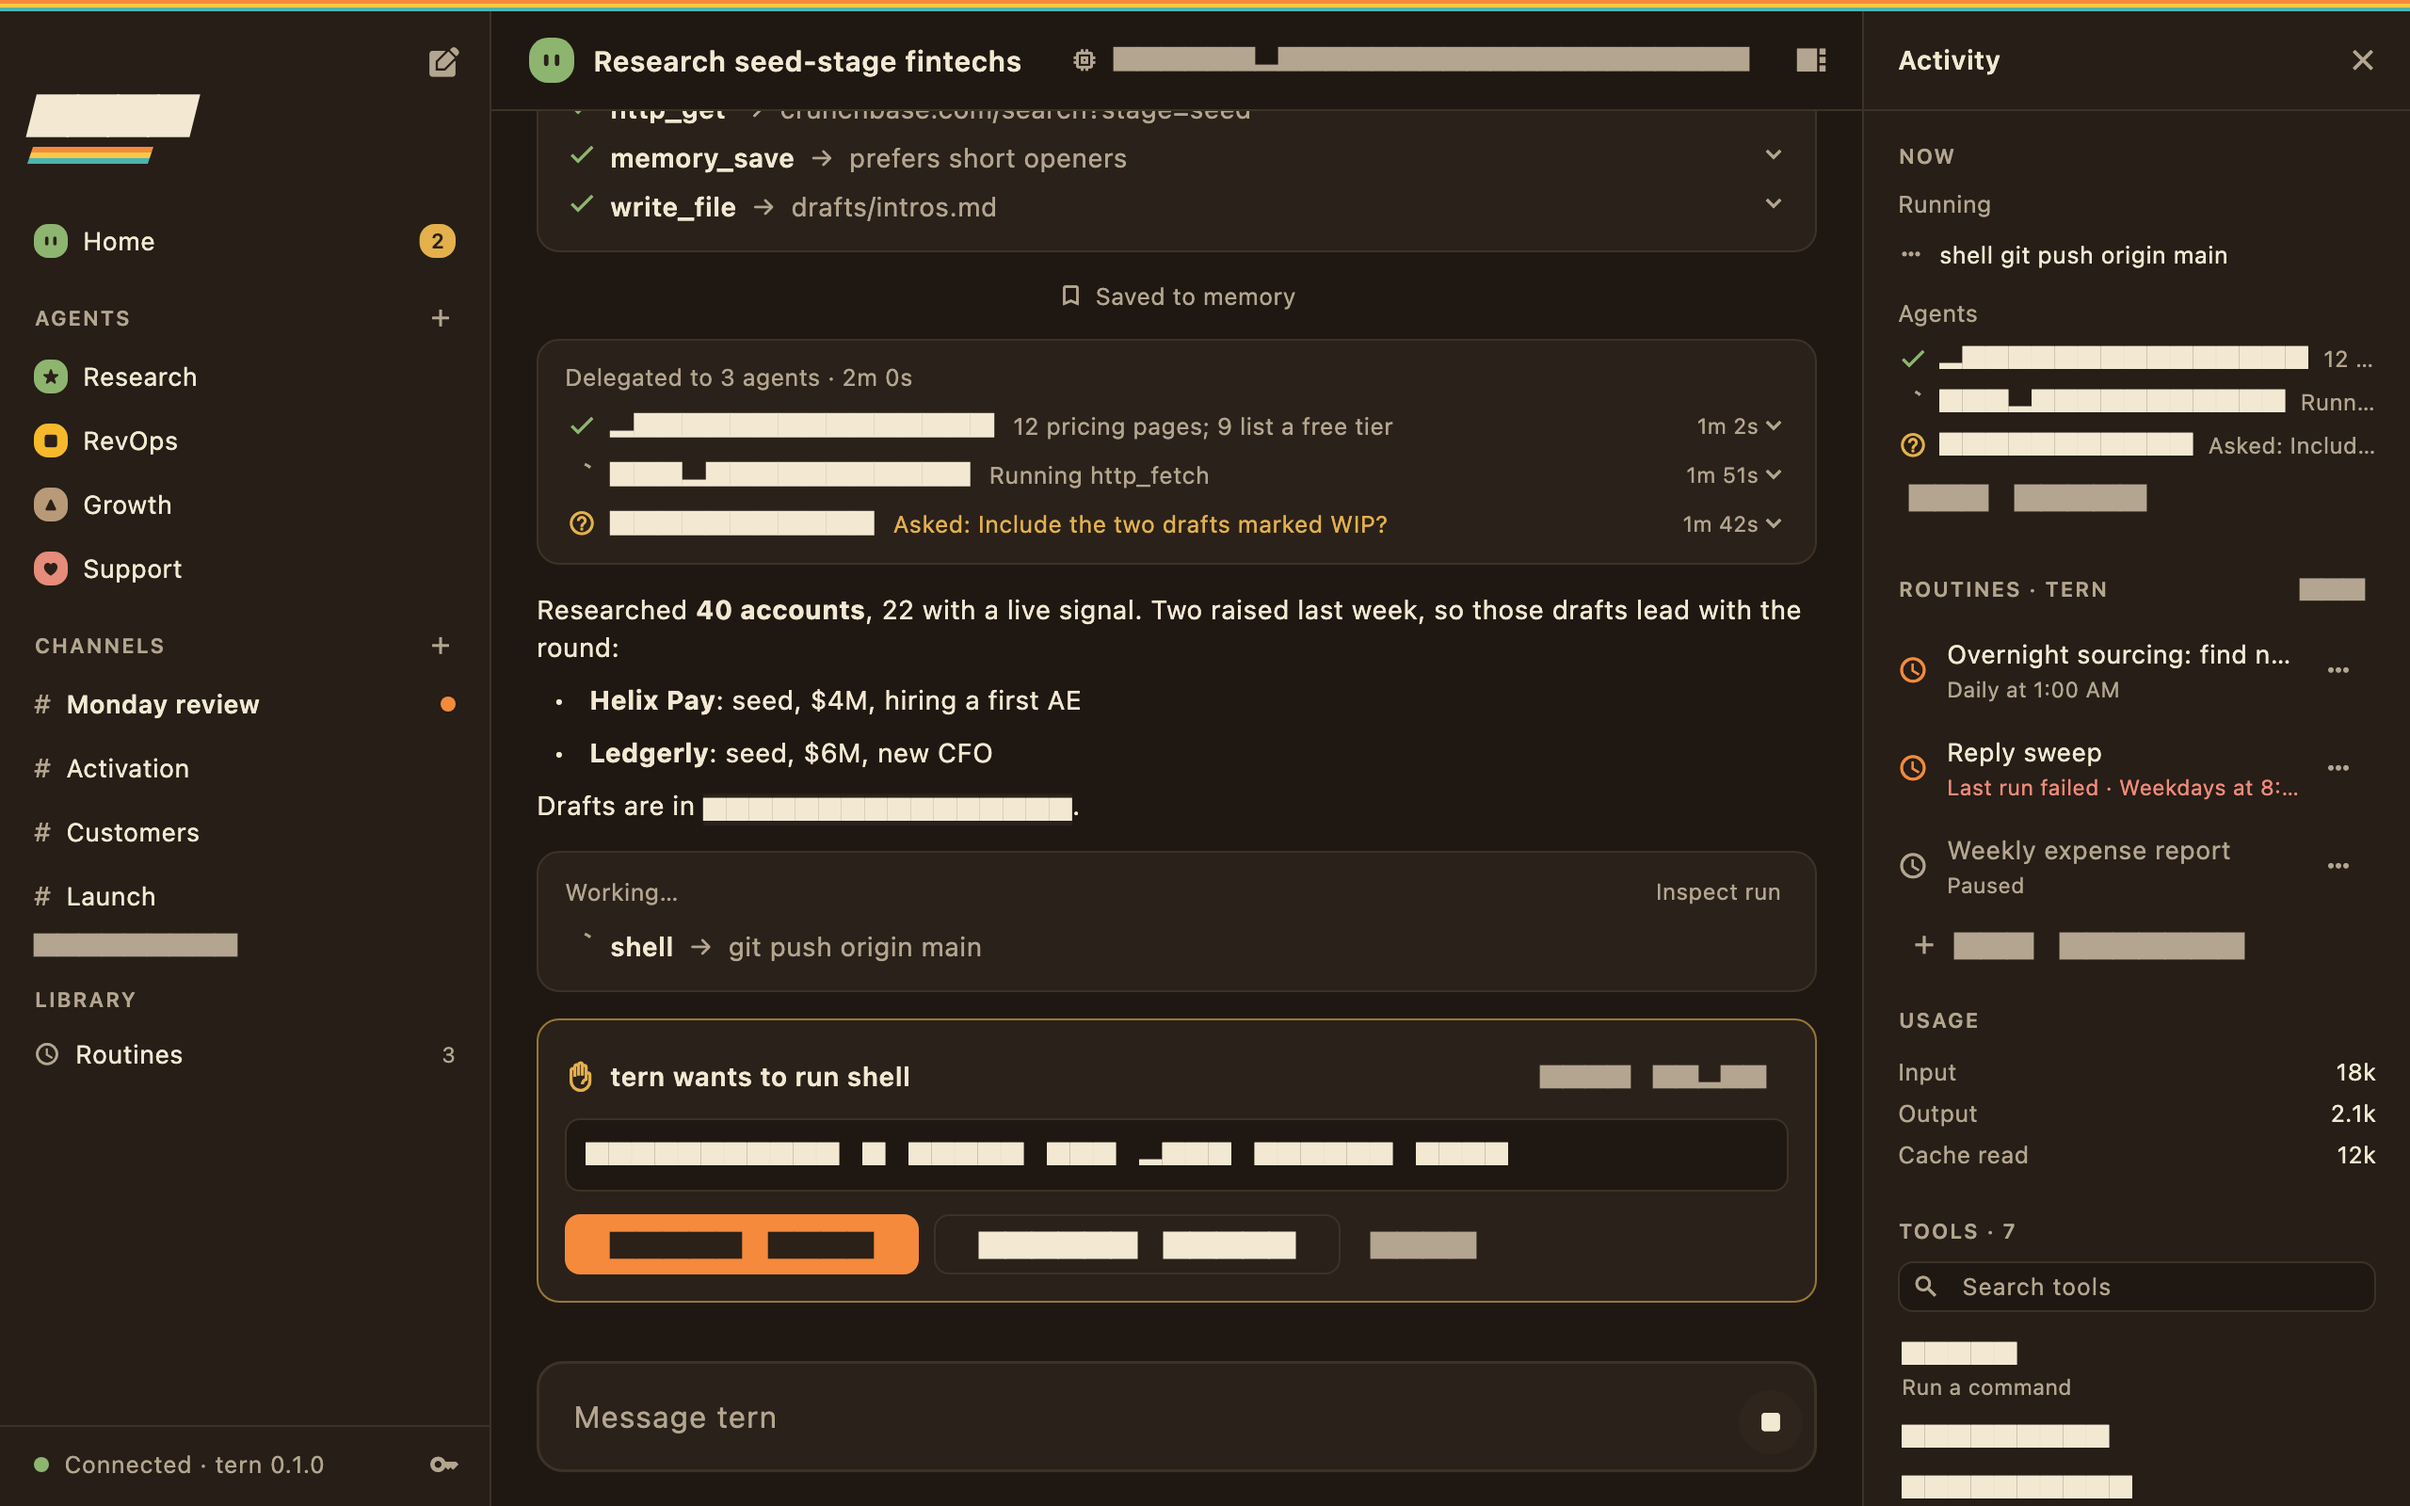
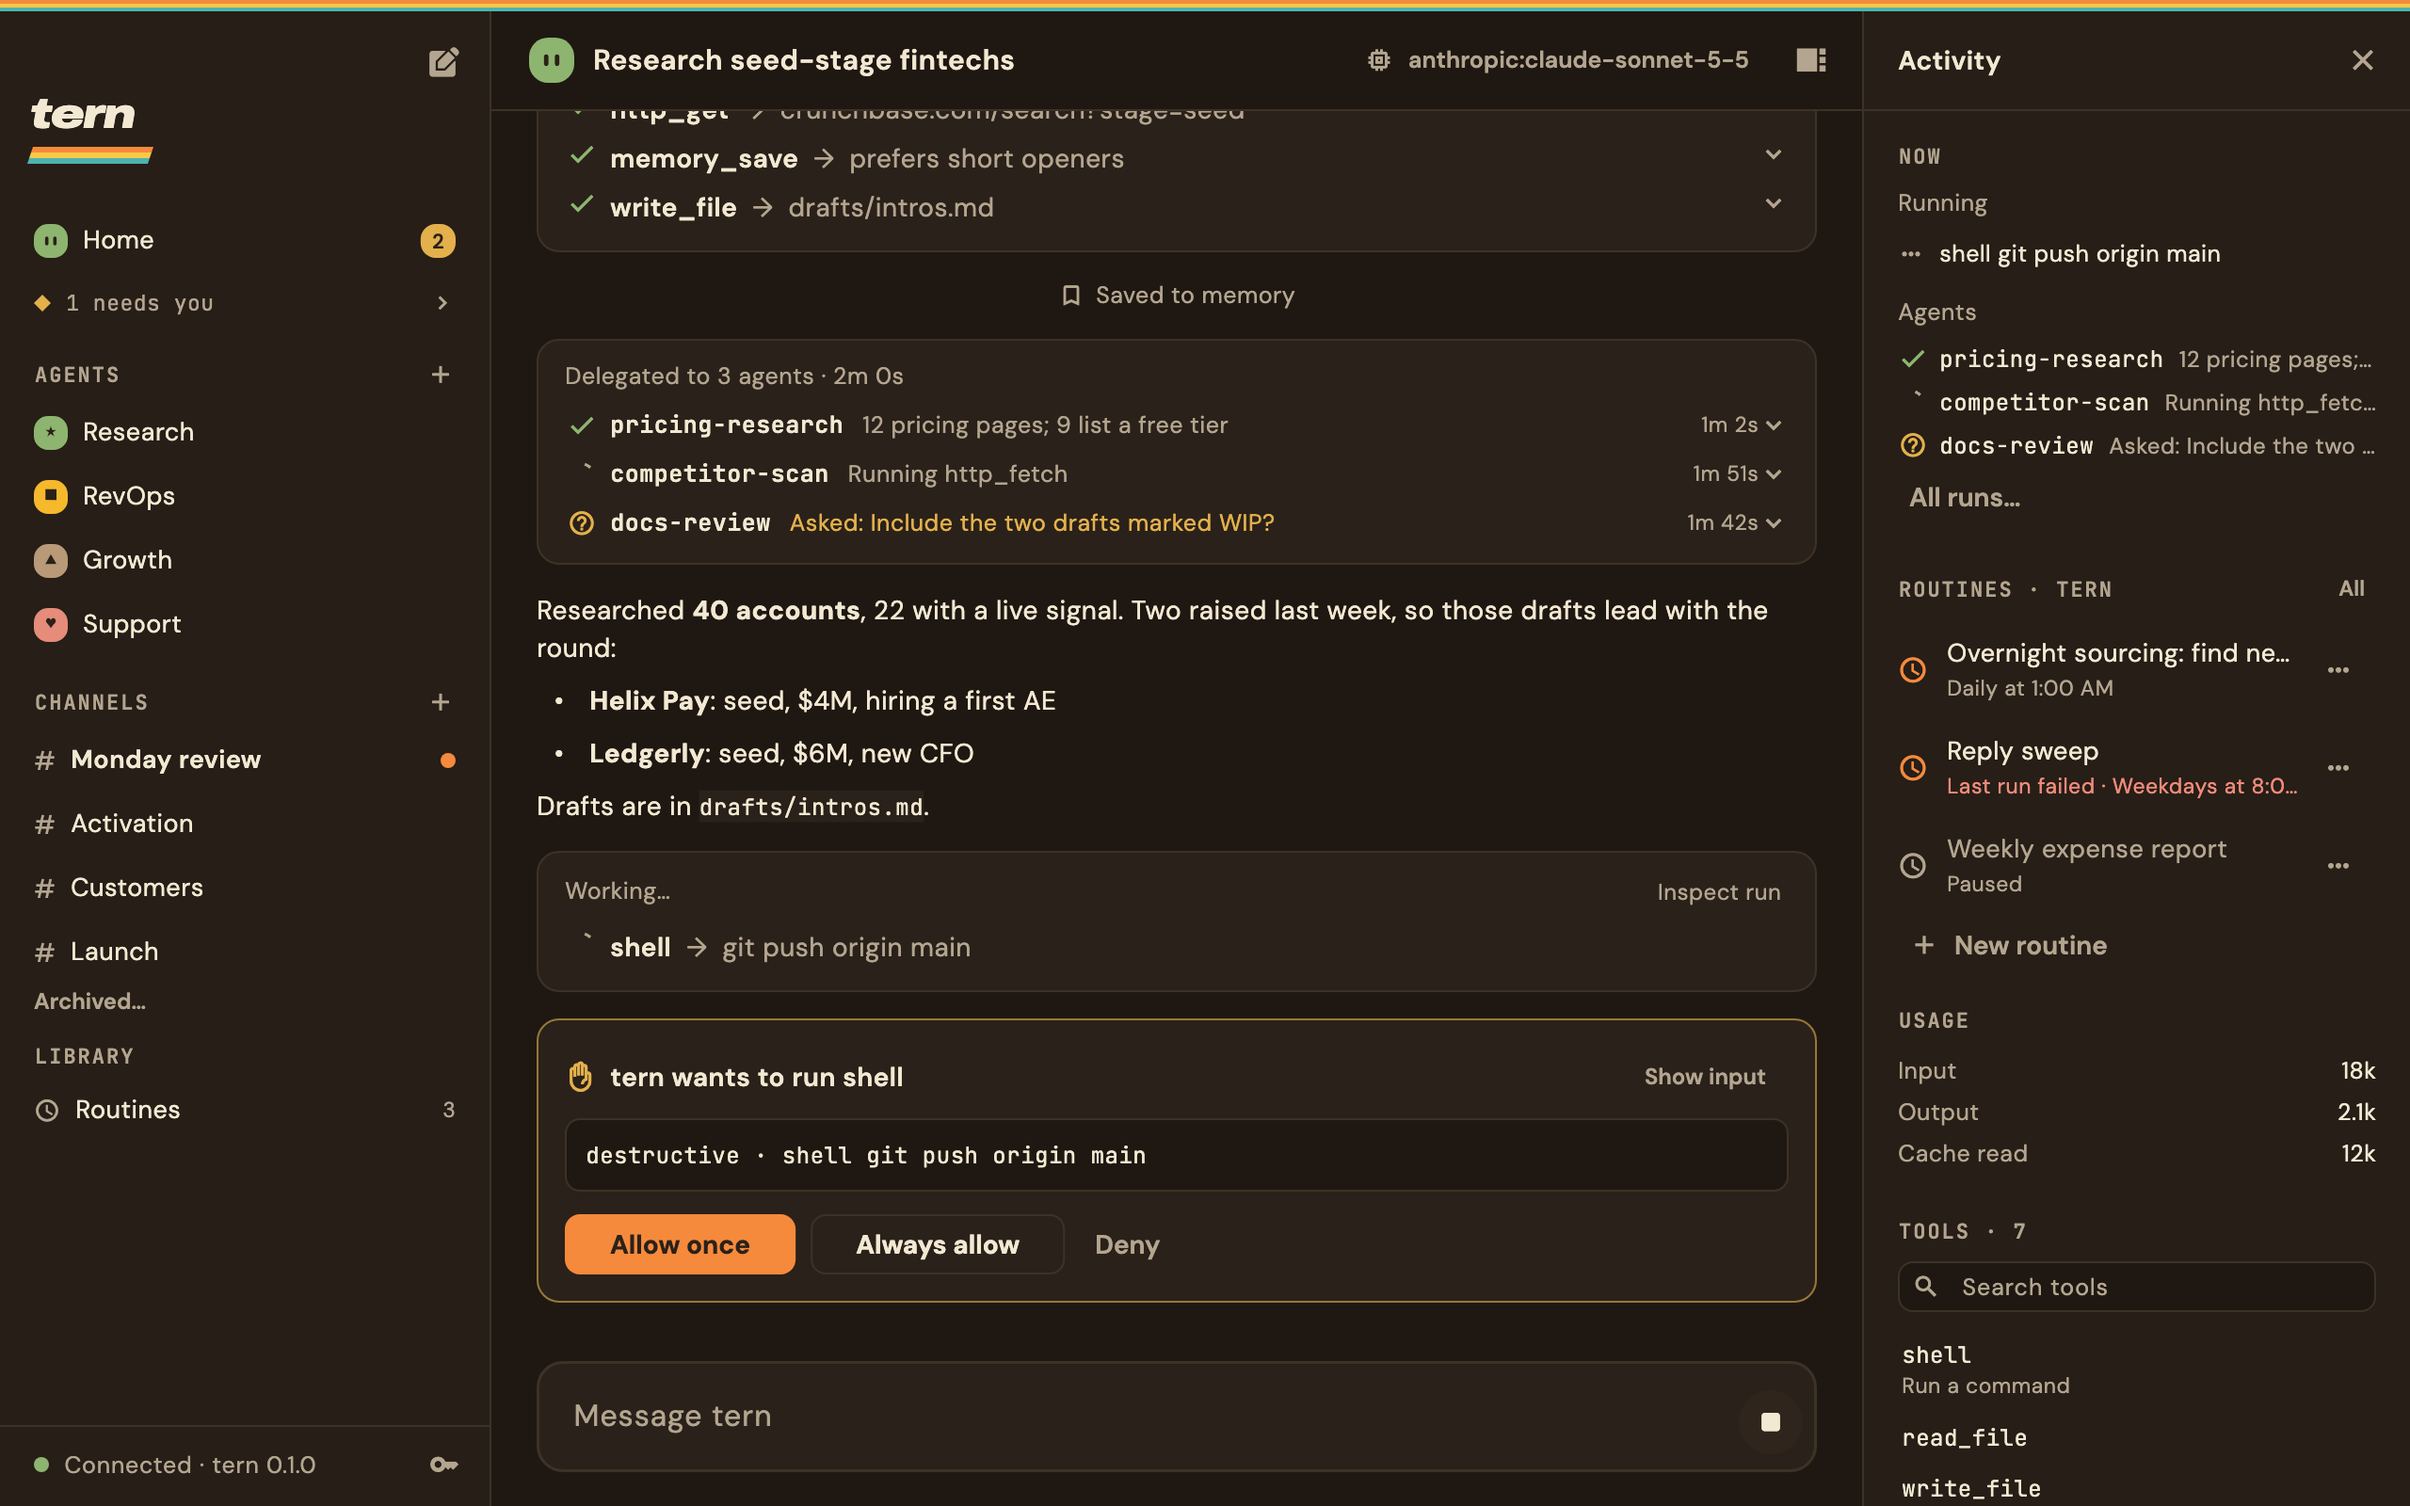
Desktop: brand font on buttons; screenshots render real brand fonts and symbols, no placeholder boxes

diff --git a/apps/desktop/test/screenshot_test.dart b/apps/desktop/test/screenshot_test.dart
@@ -29,6 +29,41 @@ Future<void> _font(String family, List<String> paths) async {
   }
 }
 
+/// Loads the bundled brand fonts under the family names the theme uses, so
+/// screenshots show the real typography instead of placeholder boxes.
+Future<void> _brandFonts() async {
+  const families = {
+    'TernDisplay': [
+      'assets/fonts/ArchivoDisplay-ExtraBoldItalic.ttf',
+      'assets/fonts/ArchivoDisplay-BlackItalic.ttf',
+    ],
+    'TernSans': [
+      'assets/fonts/DMSans-Regular.ttf',
+      'assets/fonts/DMSans-SemiBold.ttf',
+      'assets/fonts/DMSans-Bold.ttf',
+    ],
+    'TernMono': [
+      'assets/fonts/JetBrainsMono-Regular.ttf',
+      'assets/fonts/JetBrainsMono-SemiBold.ttf',
+    ],
+  };
+  for (final e in families.entries) {
+    final loader = FontLoader(e.key);
+    for (final path in e.value) {
+      loader.addFont(
+        Future.value(ByteData.sublistView(File(path).readAsBytesSync())),
+      );
+    }
+    await loader.load();
+  }
+}
+
+/// Avatar glyphs (★ ■ ▲ ♥) aren't in DM Sans; the app gets them from the
+/// system, the test from a loaded symbols font.
+ThemeData _withSymbols(ThemeData t) => t.copyWith(
+  textTheme: t.textTheme.apply(fontFamilyFallback: const ['SymbolsFallback']),
+);
+
 TernStore demoStore() {
   final now = DateTime.now();
   final store = TernStore(TernClient(const Endpoint.unix('/nonexistent')))
@@ -425,6 +460,11 @@ class _McpClient extends TernClient {
 
 void main() {
   setUpAll(() async {
+    await _brandFonts();
+    await _font('SymbolsFallback', [
+      '/System/Library/Fonts/Apple Symbols.ttf',
+      '/usr/share/fonts/truetype/dejavu/DejaVuSans.ttf',
+    ]);
     await _font('.AppleSystemUIFont', [
       '/System/Library/Fonts/SFNS.ttf',
       '/usr/share/fonts/truetype/dejavu/DejaVuSans.ttf',
@@ -455,11 +495,7 @@ void main() {
           key: key,
           child: MaterialApp(
             debugShowCheckedModeBanner: false,
-            theme: theme.copyWith(
-              textTheme: theme.textTheme.apply(
-                fontFamily: '.AppleSystemUIFont',
-              ),
-            ),
+            theme: _withSymbols(theme),
             home: Home(store: demoStore()),
           ),
         ),
@@ -553,11 +589,7 @@ void main() {
           key: key,
           child: MaterialApp(
             debugShowCheckedModeBanner: false,
-            theme: theme.copyWith(
-              textTheme: theme.textTheme.apply(
-                fontFamily: '.AppleSystemUIFont',
-              ),
-            ),
+            theme: _withSymbols(theme),
             home: Home(store: store),
           ),
         ),

diff --git a/apps/desktop/lib/theme.dart b/apps/desktop/lib/theme.dart
@@ -158,7 +158,11 @@ ThemeData ternTheme(TernColors c, Brightness b) {
         ),
     tooltipTheme: TooltipThemeData(
       waitDuration: const Duration(milliseconds: 600),
-      textStyle: TextStyle(fontSize: 12, color: c.background),
+      textStyle: TextStyle(
+        fontFamily: 'TernSans',
+        fontSize: 12,
+        color: c.background,
+      ),
       decoration: BoxDecoration(
         color: c.text,
         borderRadius: BorderRadius.circular(8),
@@ -176,7 +180,10 @@ ThemeData ternTheme(TernColors c, Brightness b) {
           FilledButton.styleFrom(
             backgroundColor: c.accent,
             foregroundColor: c.onAccent,
-            textStyle: const TextStyle(fontWeight: FontWeight.w700),
+            textStyle: const TextStyle(
+              fontFamily: 'TernSans',
+              fontWeight: FontWeight.w700,
+            ),
             shape: RoundedRectangleBorder(
               borderRadius: BorderRadius.circular(8),
               side: BorderSide(color: c.ink, width: 2),
@@ -191,7 +198,10 @@ ThemeData ternTheme(TernColors c, Brightness b) {
     outlinedButtonTheme: OutlinedButtonThemeData(
       style: OutlinedButton.styleFrom(
         foregroundColor: c.ink,
-        textStyle: const TextStyle(fontWeight: FontWeight.w700),
+        textStyle: const TextStyle(
+          fontFamily: 'TernSans',
+          fontWeight: FontWeight.w700,
+        ),
         side: BorderSide(color: c.ink, width: 2),
         shape: RoundedRectangleBorder(borderRadius: BorderRadius.circular(8)),
       ),
@@ -199,7 +209,10 @@ ThemeData ternTheme(TernColors c, Brightness b) {
     textButtonTheme: TextButtonThemeData(
       style: TextButton.styleFrom(
         foregroundColor: c.link,
-        textStyle: const TextStyle(fontWeight: FontWeight.w600),
+        textStyle: const TextStyle(
+          fontFamily: 'TernSans',
+          fontWeight: FontWeight.w600,
+        ),
       ),
     ),
     cardTheme: CardThemeData(
